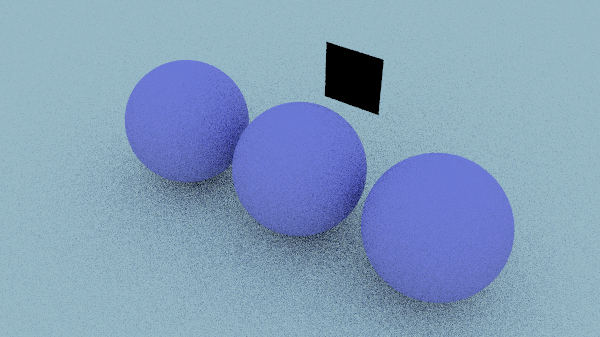
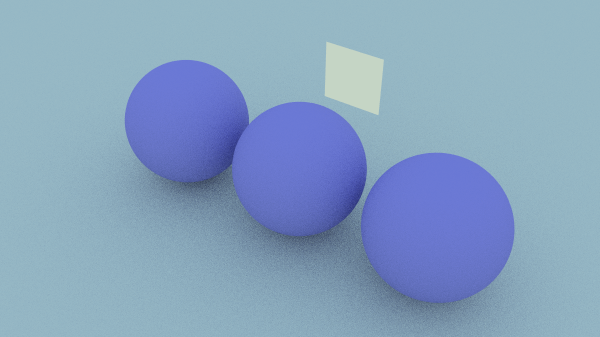
added light source but isn't pretty

diff --git a/Reza_Raytracer/main.cpp b/Reza_Raytracer/main.cpp
@@ -8,7 +8,6 @@
 #include "Sphere.h"
 #include "Camera.h"
 
-
 // This is a recursive function
 Color RayColor(const Ray3& r, const HittableList& world, int depth)
 {
@@ -32,23 +31,53 @@ Color RayColor(const Ray3& r, const HittableList& world, int depth)
 
 		Ray3 scattered;
 		Color attenuation;
+		Color emitted = rec.mat_ptr->Emitted(rec.u, rec.v, rec.p); // does not work
+		
 		if (rec.mat_ptr->Scatter(r, rec, attenuation, scattered))
 		{
 			return attenuation * RayColor(scattered, world, depth - 1);
+			return emitted + attenuation * RayColor(scattered, world, depth - 1); // does not work
 		}
-		return Color(0, 0, 0);
+		else
+		{
+			return emitted;
+		}
 	}
-	
+
 	// Non recursive
 	/*HitRecord rec;
-	if (world.Hit(r, 0, infinity, rec)) 
+	if (world.Hit(r, 0, infinity, rec))
 	{
 		return 0.5 * (rec.normal + Color(1, 1, 1));
 	}*/
-	
+
 	Vec3 unit_direction = UnitVector(r.Direction());
 	auto t = 0.5 * (unit_direction.y() + 1.0);
 	return (1.0 - t) * Color(1.0, 1.0, 1.0) + t * Color(0.5, 0.7, 1.0);
+}
+
+// This is a recursive function
+Color RayColorWithLightSource(const Ray3& r, const Color& background, const HittableList& world, int depth)
+{
+	// If we've exceeded the ray bounce limit, no more light is gathered.
+	if (depth <= 0)
+		return Color(0, 0, 0);
+
+	// Recursive
+	HitRecord rec;
+
+	// If the ray hits nothing, return the background color.
+	if (!world.Hit(r, 0.001, infinity, rec))
+		return background;
+
+	Ray3 scattered;
+	Color attenuation;
+	Color emitted = rec.mat_ptr->Emitted(rec.u, rec.v, rec.p);
+
+	if (!rec.mat_ptr->Scatter(r, rec, attenuation, scattered))
+		return emitted;
+
+	return emitted + attenuation * RayColorWithLightSource(scattered, background, world, depth - 1);
 }
 
 int main()
@@ -61,13 +90,14 @@ int main()
 	const int image_width = 600;
 	const int image_height = static_cast<int>(image_width / camera.GetAspectRatio());
 	ImageHandler imgHandler(image_width, image_height); // set up image handler
-	const int samples_per_pixel = 10; // 100
+	const int samples_per_pixel = 100; // 100
 	auto scale = 1.0 / samples_per_pixel;
-	const int max_depth = 5;
+	const int max_depth = 50; // 50
 
 	 // World
 	HittableList world;
 	world.CreateWorld();
+	Color background(0, 0, 0);
 
 	for (int y = image_height - 1; y >= 0; --y)
 	{
@@ -82,6 +112,7 @@ int main()
 				auto u = (double(x) + RandomDouble()) / (image_width - 1);
 				auto v = (double(y) + RandomDouble()) / (image_height - 1);
 				Ray3 r = camera.GetRay(u, v);
+				//pixel_color += RayColorWithLightSource(r, background, world, max_depth); // recursive function
 				pixel_color += RayColor(r, world, max_depth); // recursive function
 			}
 

diff --git a/Reza_Raytracer/Material.h b/Reza_Raytracer/Material.h
@@ -2,6 +2,7 @@
 #define __MATERIAL_H__
 
 #include "UsefulThings.h"
+#include "Texture.h"
 
 struct HitRecord;
 
@@ -56,9 +57,9 @@ public:
 class DiffuseLight : public Material
 {
 public:
-    DiffuseLight(const Color& a) 
+    DiffuseLight(const Color& c) 
     {
-        color = a;
+        emit = make_shared<SolidColor>(c);
     }
 
     virtual bool Scatter(const Ray3& r_in,
@@ -70,14 +71,13 @@ public:
     }
 
     virtual Color Emitted(double u, double v, const Point3& p) const override
-	{
-        return color;
-    	//return emit->value(u, v, p);
+	{        
+    	return emit->Value(u, v, p);
     }
 
 
 public:
-    Color color;
+    shared_ptr<Texture> emit;
 
 };
 

diff --git a/Reza_Raytracer/Texture.h b/Reza_Raytracer/Texture.h
@@ -1,0 +1,34 @@
+#ifndef __TEXTURE__
+#define __TEXTURE__
+
+#include "Vec3.h"
+
+class Texture
+{
+public:
+    virtual Color Value(double u, double v, const Point3& p) const = 0;
+};
+
+class SolidColor : public Texture {
+public:
+    SolidColor()
+    {	    
+    }
+	
+    SolidColor(Color c) : color_value(c)
+    {	    
+    }
+
+    SolidColor(double red, double green, double blue)
+        : SolidColor(Color(red, green, blue)) {}
+
+    virtual Color Value(double u, double v, const Vec3& p) const override
+	{
+        return color_value;
+    }
+
+private:
+    Color color_value;
+};
+
+#endif

diff --git a/Reza_Raytracer/Hittable.h b/Reza_Raytracer/Hittable.h
@@ -13,6 +13,10 @@ struct HitRecord
     double t;
     bool front_face;
 
+	// texture
+    double u;
+    double v;
+
 	// make sure the normal always against the ray 
     inline void SetFaceNormal(const Ray3& r, const Vec3& outward_normal)
 	{
